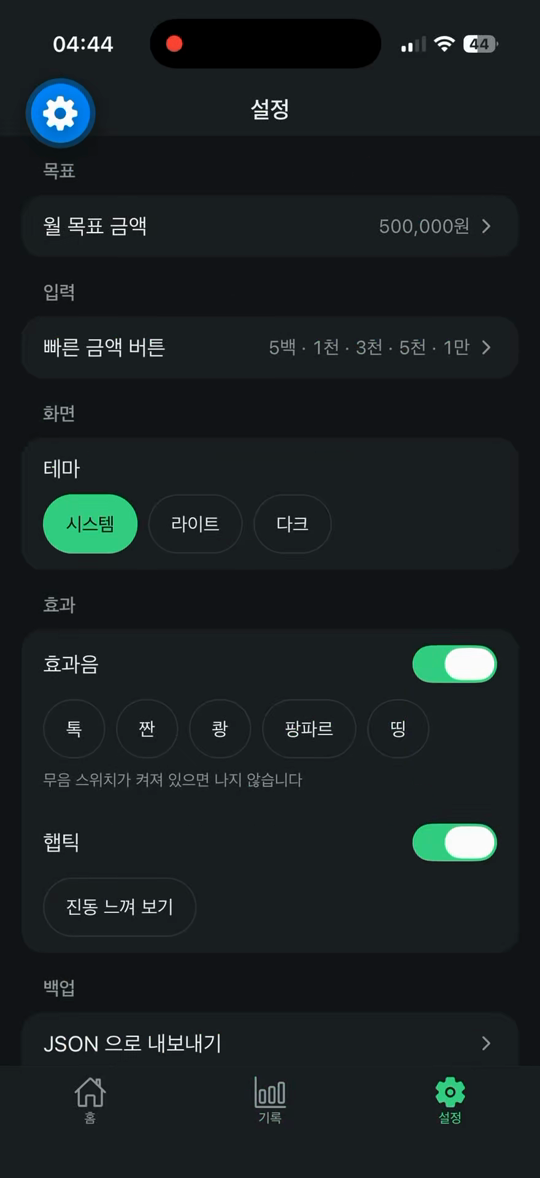
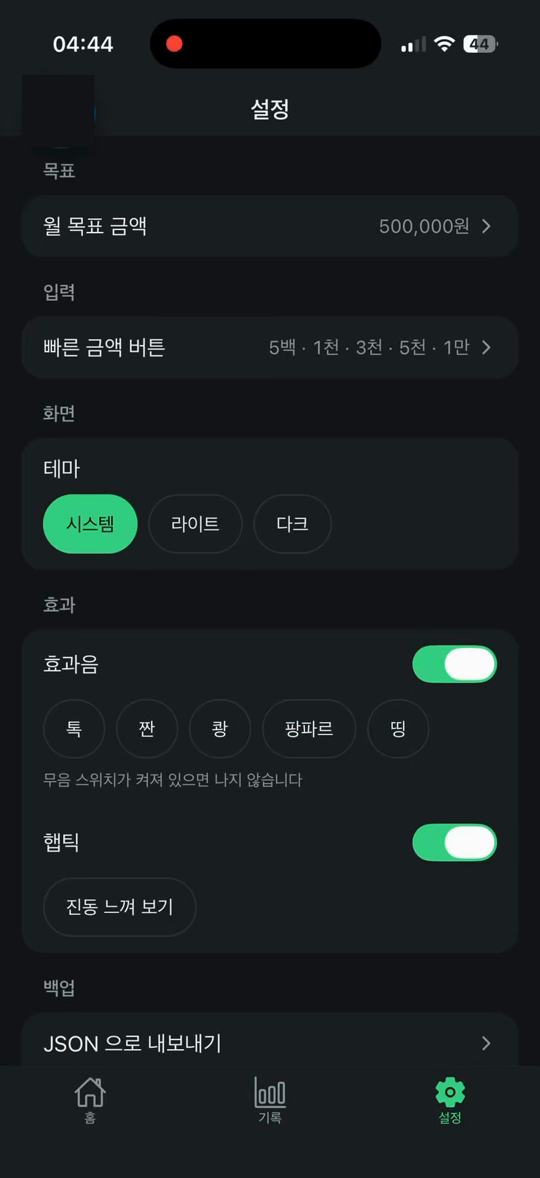
docs: 스크린샷 재추출 (Expo Go 개발 버튼 가림, 기록 월 19s), 저장 연출 GIF 16.4~18.6s

Changed region(s): [[0.0296, 0.0611, 0.1778, 0.1222]]

diff --git a/docs/img/README.md b/docs/img/README.md
@@ -7,9 +7,9 @@
 |---|---|---|
 | `home.png` | 홈 (카드 · 칩 행 · 잔디 · 목록) | 0.5s |
 | `entry-modal.png` | 입력 시트 (빠른 입력 · 프리셋 칩 · 카테고리) | 14s |
-| `records-month.png` | 기록 탭 월 모드 (일별 막대 · 카테고리 비율) | 24s |
+| `records-month.png` | 기록 탭 월 모드 (월 합계 · 일별 막대 · 카테고리) | 19s |
 | `records-year.png` | 기록 탭 년 모드 (월별 막대) | 27s |
 | `settings.png` | 설정 (목표 · 입력 · 화면 · 효과 · 백업 · 카테고리) | 32.5s |
-| `save-effect.gif` | 저장 축하 연출 (컨페티 · 라벨 · 카운트업) | 13.8~16.3s |
+| `save-effect.gif` | 저장 축하 연출 (컨페티 · 라벨 · 카운트업) | 16.4~18.6s |
 
 다시 뽑는 법 (ffmpeg): `ffmpeg -ss <초> -i docs/video/save_money_app_video.mp4 -frames:v 1 -vf scale=540:-1 docs/img/<이름>.png`
